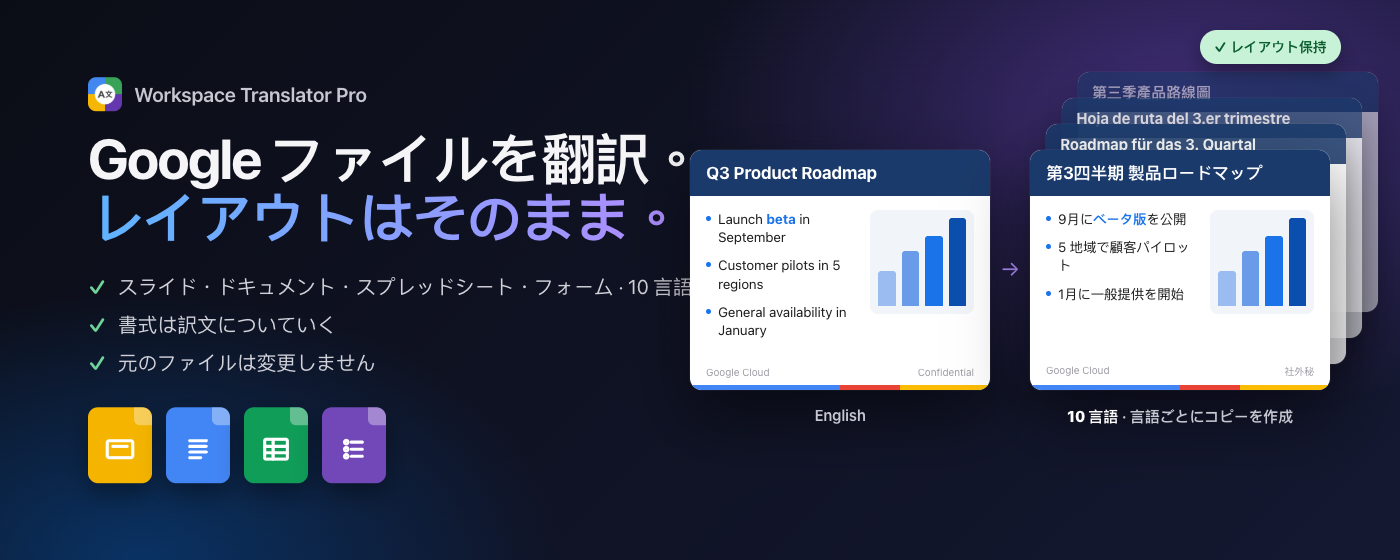
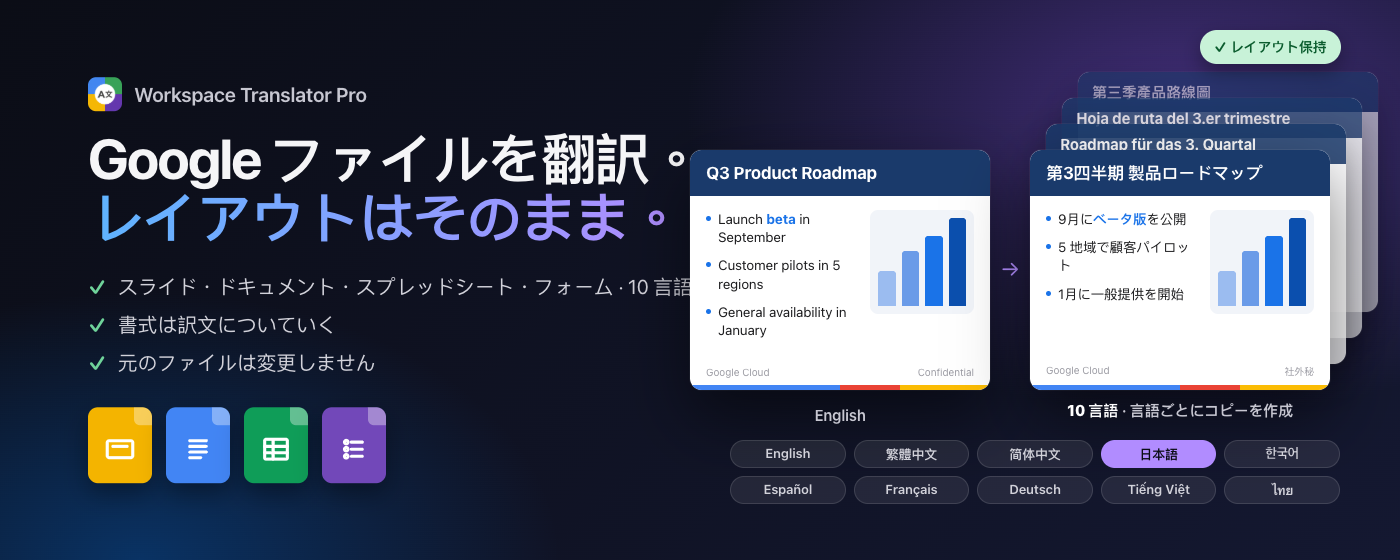
store: marquee lists all 10 languages; Spanish version shows English → 繁體中文

diff --git a/store-assets/compose.html b/store-assets/compose.html
@@ -153,8 +153,12 @@
   .stack { position: absolute; width: 300px; height: 240px; border-radius: 12px; background: #fff; overflow: hidden;
            box-shadow: 0 18px 40px rgba(0,0,0,.45), 0 0 0 1px rgba(255,255,255,.06); }
   .stack .hd { height: 40px; padding: 0 14px; display: flex; align-items: center; font-size: 15px; font-weight: 700; color: #fff; background: #1a3a6b; }
-  .multi { position: absolute; top: 406px; left: 1010px; width: 340px; text-align: center; font-size: 15px; font-weight: 600; color: #c7c7d1; }
+  .multi { position: absolute; top: 400px; left: 1010px; width: 340px; text-align: center; font-size: 15px; font-weight: 600; color: #c7c7d1; }
   .multi b { color: #fff; }
+  .langrow { position: absolute; left: 730px; width: 610px; top: 440px; display: grid; grid-template-columns: repeat(5, 1fr); gap: 8px; }
+  .langrow span { text-align: center; }
+  .langrow span { padding: 5px 11px; border-radius: 980px; font-size: 13px; font-weight: 600; color: #d2d2da; background: rgba(255,255,255,.08); box-shadow: inset 0 0 0 1px rgba(255,255,255,.12); }
+  .langrow span.on { color: #0b0d16; background: #b18cff; box-shadow: none; }
 </style>
 </head>
 <body>
@@ -179,10 +183,10 @@ const T = {
         pts: ['スライド・ドキュメント・スプレッドシート・フォーム · 10 言語', '書式は訳文についていく', '元のファイルは変更しません'],
         types: ['スライド', 'ドキュメント', 'シート', 'フォーム'], tile: 'AI 翻訳 · 10 言語 · レイアウト保持',
         slide: { name: '日本語', title: '第3四半期 製品ロードマップ', items: ['9月に<em>ベータ版</em>を公開', '5 地域で顧客パイロット', '1月に一般提供を開始'], conf: '社外秘' } },
-  es: { back: ['第3四半期 製品ロードマップ', 'Roadmap für das 3. Quartal', '第三季產品路線圖'], multi: '<b>10 idiomas</b> · una copia por idioma', html: 'es', h1: 'Traduce archivos de Google.', h2: 'Conserva el diseño.', kept: 'Diseño intacto',
+  es: { back: ['Hoja de ruta del 3.er trimestre', '第3四半期 製品ロードマップ', 'Roadmap für das 3. Quartal'], multi: '<b>10 idiomas</b> · una copia por idioma', html: 'es', h1: 'Traduce archivos de Google.', h2: 'Conserva el diseño.', kept: 'Diseño intacto',
         pts: ['Presentaciones, Documentos, Hojas y Formularios · 10 idiomas', 'El formato sigue a cada palabra', 'Tu original queda intacto'],
         types: ['Slides', 'Docs', 'Sheets', 'Forms'], tile: 'Traducción con IA · 10 idiomas · diseño intacto',
-        slide: { name: 'Español', title: 'Hoja de ruta del 3.er trimestre', items: ['Lanzamiento de la <em>beta</em> en septiembre', 'Pilotos con clientes en 5 regiones', 'Disponibilidad general en enero'], conf: 'Confidencial' } },
+        slide: { name: '繁體中文', title: '第三季產品路線圖', items: ['9 月推出 <em>Beta 版</em>', '在 5 個地區進行客戶試行', '1 月正式上市'], conf: '機密' } },
 };
 
 const device = (state, style = '', marks = '') => `
@@ -239,6 +243,7 @@ const shots = {
       ${mini('b', L.slide).replace('class="ms b"', 'class="ms b" style="top:150px"')}
       <div class="ms-lbl" style="left:690px; top:406px">English</div>
       <div class="multi">${L.multi}</div>
+      <div class="langrow">${['English', '繁體中文', '简体中文', '日本語', '한국어', 'Español', 'Français', 'Deutsch', 'Tiếng Việt', 'ไทย'].map((n) => `<span class="${n === L.slide.name ? 'on' : ''}">${n}</span>`).join('')}</div>
       <div class="kept" style="left:1200px; top:30px">✓ ${L.kept}</div></div>`; })(),
   tile: (() => { const L = T[lang] || T.en; return `<div class="tl dark" lang="${L.html}"><img src="../icons/icon128.png" alt=""><h1>Workspace Translator Pro</h1>
         <div class="types">${L.types.map((t, i) => `<span style="background:${['#f4b400', '#4285f4', '#0f9d58', '#7248b9'][i]}">${t}</span>`).join('')}</div>
